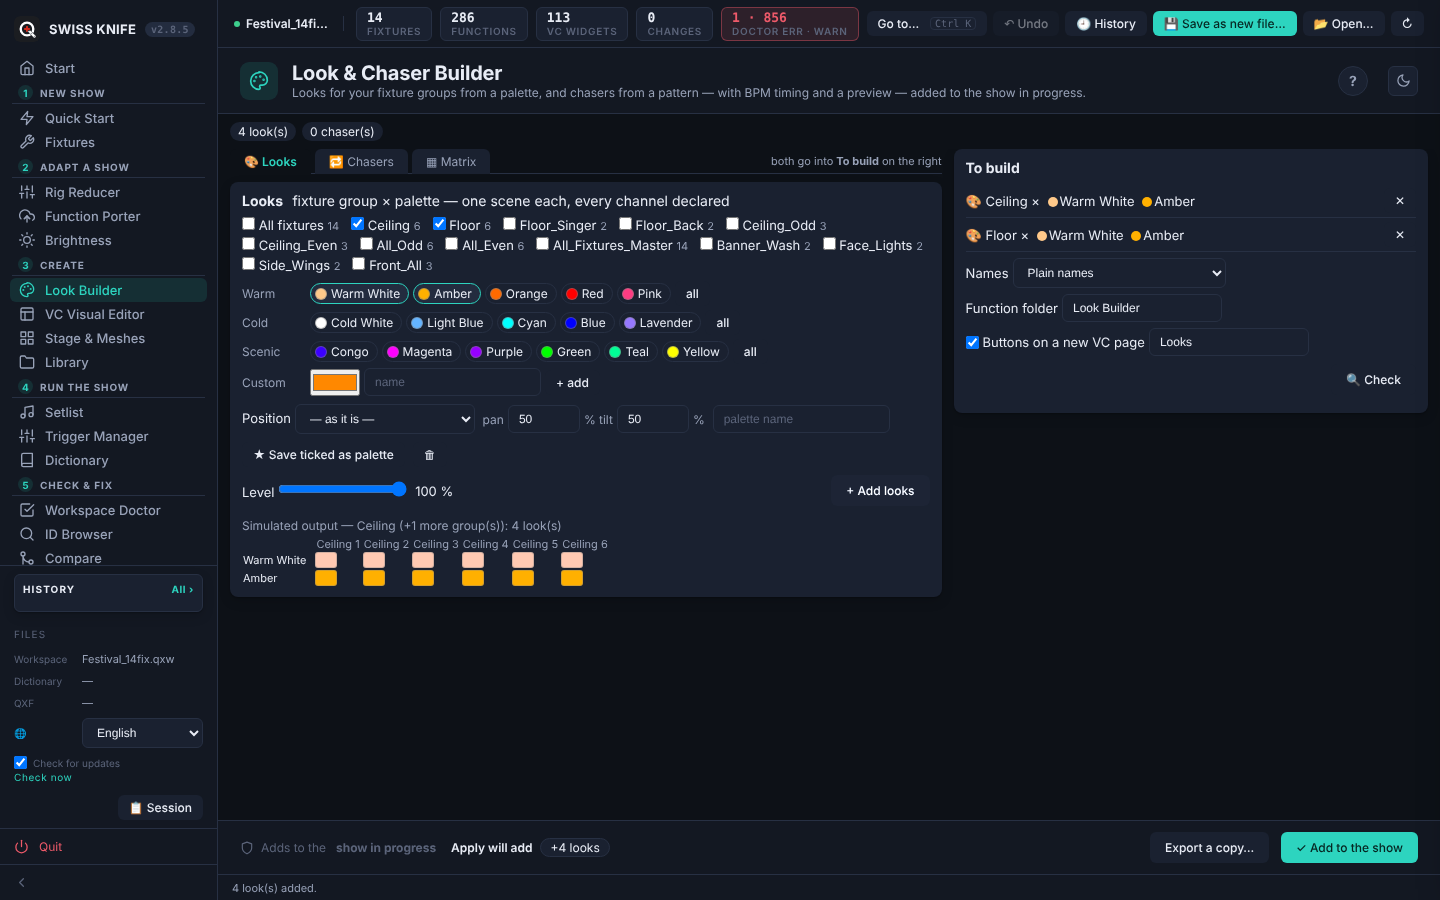
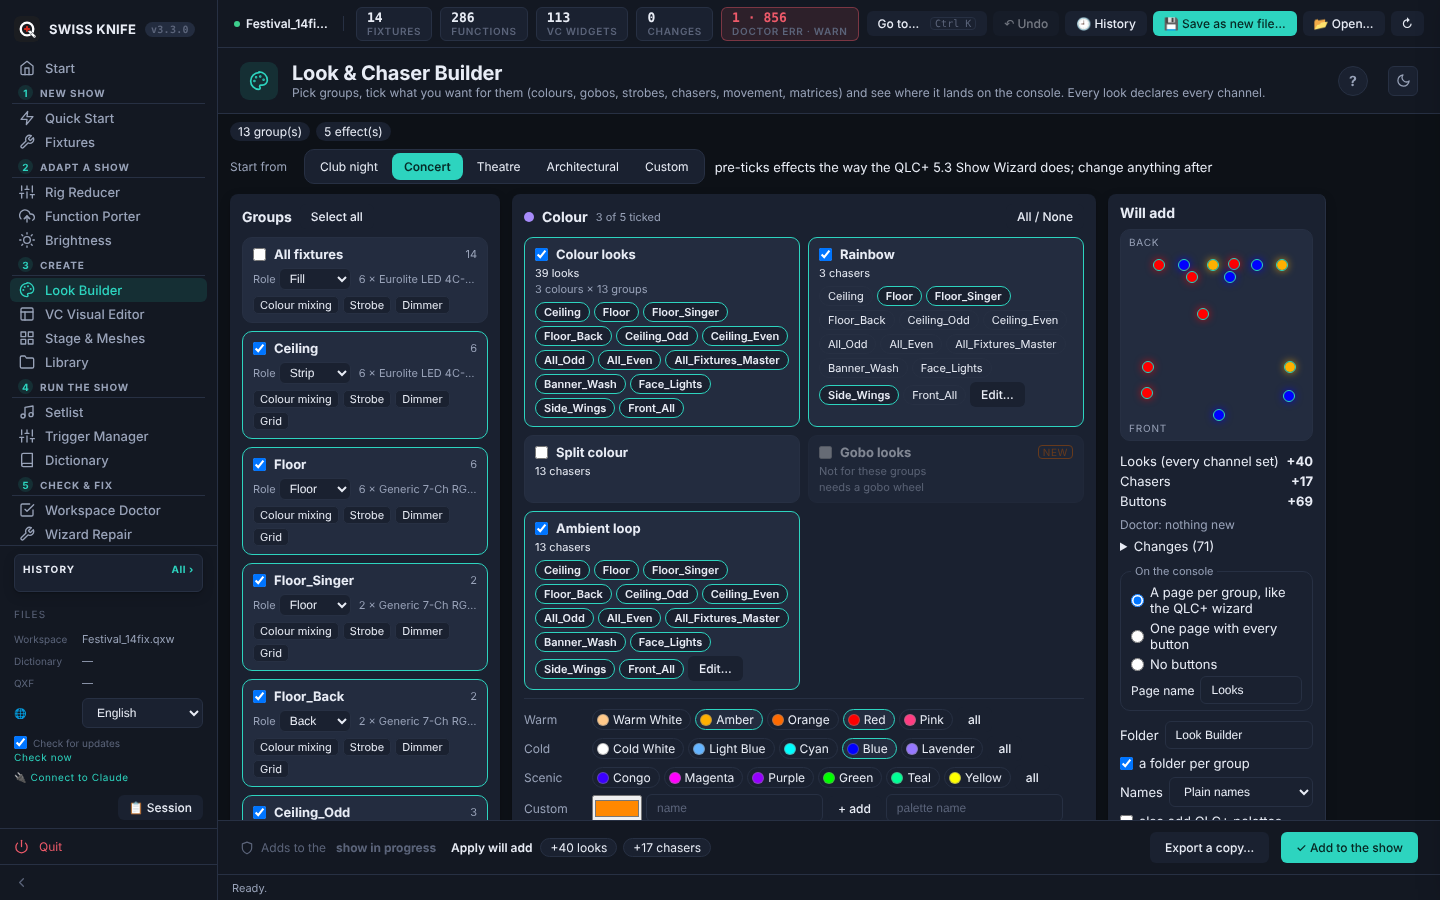
docs: 3.3.0 release notes, changelog, README and screenshot, work plan; version 3.3.0
Claude-Session: https://claude.ai/code/session_01QAPYdCyhLPYeTtoNViQ3PK

diff --git a/tools/make_screenshots.py b/tools/make_screenshots.py
@@ -92,18 +92,14 @@ def main():
         pg.wait_for_timeout(1200)
         shot("05-function-porter.png", "porter", 1200)
         shot("06-brightness.png", "brightness")
-        # 07 · Look Builder: two groups, the warm palette, added to the batch
+        # 07 · Look Builder (3.3.0): every group, Start from Concert, the counts worked out
         pg.click("#sn-looks")
-        pg.wait_for_timeout(900)
+        pg.wait_for_timeout(1200)
         try:
-            pg.get_by_label("Ceiling").first.check()
-            pg.get_by_label("Floor", exact=False).first.check()
-            pg.get_by_text("Warm White").first.click()
-            pg.get_by_text("Amber").first.click()
-            pg.get_by_role("button", name="+ Add looks").click()
+            pg.evaluate("looksType('Concert')")
         except Exception as e:  # noqa: BLE001
             print("  ! looks:", str(e)[:120])
-        shot("07-look-builder.png", None, 900)
+        shot("07-look-builder.png", None, 2500)
         shot("08-vc-editor.png", "vceditor", 1500)
         shot("09-stage-meshes.png", "stage", 1200)
         # 10 · Setlist: a night's songs pasted into the first slot and matched

diff --git a/core/workspace.py b/core/workspace.py
@@ -29,7 +29,7 @@ QLC_NS_URI = 'http://www.qlcplus.org/Workspace'
 NS = {'q': QLC_NS_URI}
 ET.register_namespace('', QLC_NS_URI)
 
-VERSION = "3.2.0"  # single source of truth — must match CHANGELOG
+VERSION = "3.3.0"  # single source of truth — must match CHANGELOG
 
 # ── Safety limits (same as the tkinter version) ───────────────────────────────
 _MAX_XML_BYTES = 50 * 1024 * 1024   # 50 MB

diff --git a/WORKPLAN.md b/WORKPLAN.md
@@ -18,7 +18,7 @@ This is the living plan for Swiss Knife. It says where the project stands, what 
 
 ## 1. Where we are
 
-**Version 3.2.0, released 15 October 2026.** 3.1.0 added support for shows made by the QLC+ 5.3 Show Wizard, and 3.2.0 gives older QLC+ 5 shows what QLC+ 5.3 offers. Swiss Knife opens a QLC+ 5 workspace once, lets any tool change it as the show in progress, checks it with the Workspace Doctor and saves it as a new file with a report and a recipe.
+**Version 3.3.0, 15 October 2026 (prepared, not yet merged).** 3.1.0 added support for shows made by the QLC+ 5.3 Show Wizard, 3.2.0 gives older QLC+ 5 shows what QLC+ 5.3 offers, and 3.3.0 rebuilds the Look & Chaser Builder in the wizard's terms. Swiss Knife opens a QLC+ 5 workspace once, lets any tool change it as the show in progress, checks it with the Workspace Doctor and saves it as a new file with a report and a recipe.
 
 | Area | State |
 |---|---|
@@ -27,7 +27,7 @@ This is the living plan for Swiss Knife. It says where the project stands, what 
 | Install | Packages for macOS (Apple silicon and Intel), Windows (installer and zip) and Linux. An update check with *Update and restart*, tested on macOS several times. |
 | Language | English, Italian, French, German, Spanish, Portuguese, Japanese and Chinese. |
 | Claude | Swiss Knife is an MCP server with 26 tools, among them `guide`, which explains the others. It also offers four ready requests (MCP prompts) and the guide as resources. Claude Desktop connects with one file (`.mcpb`), Claude Code with one command. Claude gets only the folders you list and Swiss Knife itself, and it writes only new files. The *Connect to Claude* card and the menu item show whether the connection exists. |
-| Tests | 915 automated tests pass. A live check against a real QLC+ 5.2.2 runs in CI (advisory). |
+| Tests | 932 automated tests pass. A live check against a real QLC+ 5.2.2 runs in CI (advisory). |
 | Documentation | README, wiki (31 pages, *Claude's tools* written from the code), CHANGELOG, one set of release notes per version. |
 
 Release 3.0.0 was the milestone: installing, updating, three languages and the Claude connection all in place, with the documentation rewritten to match. Release 3.0.1 follows a test on a real show with Claude: the Dictionary drafts descriptions itself and can hand the job to Claude, cue notes name the button, and Claude's tools are documented where Claude reads them. Release 3.0.2 adds German, Spanish, Portuguese, Japanese and Chinese, and 3.0.3 translates the tool names and fills the gaps found on the first look.
@@ -57,7 +57,25 @@ The alignment plan (`claude/STAGE_WIZARD_ALIGNMENT.md`) numbered its items 3.1 t
 | 3.1 | QLC+ 5.3 shows are safe in Swiss Knife (palettes read everywhere, layer scenes, Doctor D019 and D020) | 3.1.0, 14 October |
 | 3.2 | Finish a QLC+ wizard show (Wizard Repair) | 3.1.0, 14 October |
 | 3.3 | Upgrade a v5 show to QLC+ 5.3 | 3.2.0, 15 October |
-| 3.4 | Align Swiss Knife's own generators with the wizard (Quick Start, Look Builder) | next, 3.3.0 |
+| 3.4 | Align Swiss Knife's own generators with the wizard: the Look Builder | 3.3.0, 15 October (prepared) |
+| 3.4 | … and Quick Start (roles, capabilities from the definition, placement by role, the wizard's order) | next |
+
+### Released in 3.3.0 (prepared 15 October, branch `feat/v3.3.0`)
+
+The Look Builder part of item 3.4 of the alignment plan. Mockup first (the Claude design canvas *Look Builder redesign*, plan in `claude/LOOK_BUILDER_PLAN.md`), then built.
+
+| Change | Where |
+|---|---|
+| What a group can do (colour mixing, wheel, gobo, strobe, moves, dimmer, grid), the wizard's nine roles and a suggestion, static gobos, places on the stage, EFX in the wizard's form (5.2.2-safe) | `core/look_families.py` |
+| New plan kinds: levels, strobes, gobos (gobo × colour), blinder, place on looks and chasers, efx, matrices on a group (Dimmer mode without colour mixing), folders per group, QLC+ palettes, buttons on a page per group. A 3.2.0 plan builds byte for byte as before | `core/look_builder.py` |
+| The page-per-group console shared with Upgrade to QLC+ 5.3 (its output unchanged); the XY pad gets its own column | `core/vc_group_pages.py`, `core/upgrade53.py` |
+| The screen: groups, families, Start from, will add (live check), effect panel with More, in seven languages | `static/js/looks.js`, `static/css/style.css`, `static/i18n/*.json` |
+| Claude: `build_looks` and `looks_options` | `core/mcp_server.py`, `core/mcp_guide.py`, `routes/looks_routes.py` |
+| 17 tests on the wizard's concert show and the Quick Start club show | `tests/test_look_families.py` |
+| Fixed on the way: the options route stripped the namespace of the show in progress (the VC editor lost its pages); the fly out read the fixture rotation from the wrong place | Done |
+| Check on the Mac: on a show with moving heads, Start from Concert, Add to the show, then in QLC+ 5.3.0 the Looks page (one page per group, gobo looks, strobe looks on a Sharpy or JDC1, circle on a look aimed at a musician, fly out and in); the same show in QLC+ 5.2.2 | To do (giopas) |
+
+Decisions taken with it (15 October, giopas): the tool keeps its name; buttons on a page per group by default; gobo looks are one per gobo and colour; movement effects in 3.3.0. Roles are suggested and steer *Start from*, but are not stored in the show profile yet.
 
 ### Released in 3.2.0 (15 October)
 
@@ -215,6 +233,7 @@ Dates are the CHANGELOG dates. Details of each release are in [CHANGELOG.md](CHA
 | 3.0.3 | 9 Oct | Tool names translated; the gaps of the new languages filled. |
 | 3.1.0 | 14 Oct | QLC+ 5.3 Show Wizard shows: palettes read everywhere, Doctor D019 and D020, Wizard Repair. |
 | 3.2.0 | 15 Oct | Upgrade to QLC+ 5.3 for older shows; Doctor I008. |
+| 3.3.0 | 15 Oct | The Look & Chaser Builder in the wizard's families: gobo, strobe and level looks, places, movement effects, a page per group. |
 
 ## 4. Goal and the Pub test
 

diff --git a/CHANGELOG.md b/CHANGELOG.md
@@ -7,6 +7,30 @@ This project follows [Keep a Changelog](https://keepachangelog.com/en/1.0.0/) co
 
 ## [Unreleased]
 
+## [3.3.0] — 2026-10-15
+
+The Look & Chaser Builder works the way the QLC+ 5.3 Show Wizard thinks, and keeps everything it could do. Every look still sets every channel of its fixtures.
+
+### Changed
+- **One screen in three columns.** *Groups*: a card per fixture group with its fixtures, what they can do (colour mixing, colour wheel, gobo, strobe, moves, a grid for matrices, read from the fixture definitions) and a role, one of the wizard's nine, suggested from the group's name. *Effects*, in the wizard's families: Colour, Intensity, Movement, Matrix. Each effect is a card that says what it makes and on which groups; when no picked group can do it, it is greyed out with the reason. *Will add*: the stage seen from above, lit with the looks; the counts and the Doctor's verdict, worked out as you tick; where the buttons go.
+- **Start from** Club night, Concert, Theatre, Architectural or Custom ticks the effects the wizard ticks for that kind of show, and gives each one to the groups whose role suits it. Everything can be changed after.
+- **Buttons on a page per group**, like the wizard: one console page with a frame and a page per group, picked in the frame's header. Each page has an intensity slider, the group's looks in one solo frame (one at a time, a row per kind), its effects, PANIC RESET when the show has one, and an XY pad for moving heads in its own column. One page with every button, as before, or no buttons, are still there.
+- Functions go in a folder per group (`Look Builder/<group>/Looks` and `/Effects`), like the wizard's. The old single folder is still an option.
+- A chaser card opens the **effect panel**: the recipe (the song presets), pattern tiles with a picture of each, the colours in order, speed with Tap, cut or soft fade, and a large step preview with ▶ Play. Every other setting of the old chaser form is under *More*: steps, seed, lights on per step, split, milliseconds, the QLC+ tempo, fade percentage, colours per step or per fixture, type, background, where the moving heads aim, name. *+ New chaser* builds one of your own on any group.
+
+### Added
+- **Gobo looks**: one look per gobo and colour, in the colours you tick. Only the static gobos of the wheel are offered (no shake or scroll slots), and you pick which ones; the card says how many looks that makes.
+- **Full · Half · Off** and **Strobe slow · fast**: whole looks in white, the strobe inside each fixture's own strobe range (what the wizard's Shutter palettes cannot do on a Sharpy or a JDC1).
+- **Blinder hit**: every light of the groups at full, on a flash button.
+- **Places on the stage**: the stage centre, the audience and each musician model placed in Stage & Meshes. The colour and gobo looks of the moving heads aim there, worked out from each fixture's position like a QLC+ Position3D palette.
+- **Movement effects** (QLC+ EFX), as the wizard makes them: *Circle*, *Figure eight* and *Audience sweep* ride on the aim of the look that is playing; *Fly out* and *Fly in* set the aim themselves, mirrored for heads turned upstage. They work in QLC+ 5.2.2 too (no 5.3-only dimmer control).
+- **Matrices on any group laid out as a grid**, not only pixel bars; a group without colour mixing runs the matrix on its dimmers.
+- *Also add QLC+ palettes*: the Dimmer, Shutter, Color and Position3D palettes of Upgrade to QLC+ 5.3, for the looks just made.
+- Claude: `build_looks` takes the new kinds (levels, strobes, gobos, blinder, efx, matrices on a group, place, vc, folders, palettes) and `looks_options` returns what each group can do, its role, its gobos and the places on the stage.
+
+### Kept
+- Every control of the old screen (see *Look Builder* in the wiki for where each one went), the song presets, your palettes and custom colours, the pixel-bar matrices, Export a copy, and the same output for a plan written for 3.2.0.
+
 ## [3.2.0] — 2026-10-15
 
 Older QLC+ 5 shows get what QLC+ 5.3 offers. Checked against the source of QLC+ 5.2.2 and 5.3.0: an older show opens in 5.3 as it is, so the upgrade only adds.

diff --git a/README.md b/README.md
@@ -1,4 +1,4 @@
-# QLC+ Swiss Knife v3.2.0
+# QLC+ Swiss Knife v3.3.0
 
 <p align="center"><img src="static/logo/icon-512.png" alt="QLC+ Swiss Knife logo" width="140"></p>
 
@@ -40,7 +40,7 @@ The tools are grouped by job and numbered 1 to 6, like the side menu and the Sta
 | **2 · Adapt a show** | [Rig Reducer](https://github.com/giopas/qlc-plus-swiss-knife-tool-script/wiki/Rig-Reducer) | Keep the fixtures of a smaller rig. Everything that used the others is cleaned up, and you can re-patch. |
 | | [Function Porter](https://github.com/giopas/qlc-plus-swiss-knife-tool-script/wiki/Function-Porter) | Bring looks, chasers, effects and their buttons from another show, with fixtures, groups and meshes. Copied fixtures can join the show's own looks (*plays like*), other fixture types are translated by capability, 14 fixtures can fan in to 6, and key and MIDI bindings come along. |
 | | [Brightness](https://github.com/giopas/qlc-plus-swiss-knife-tool-script/wiki/Brightness) | Scale the master dimmer of each fixture type across every scene. Colours stay as they are. |
-| **3 · Create** | [Look Builder](https://github.com/giopas/qlc-plus-swiss-knife-tool-script/wiki/Look-Builder) | Looks from a palette for your fixture groups, and chasers from a pattern with BPM or beats timing, moving-head positions, your own palettes, pixel-bar matrices, song presets and a playable preview. |
+| **3 · Create** | [Look Builder](https://github.com/giopas/qlc-plus-swiss-knife-tool-script/wiki/Look-Builder) | Looks and effects for your fixture groups in the QLC+ 5.3 wizard's families: colours, gobos, strobes, chasers, movement effects and matrices, each greyed out when a group can't do it. Buttons on a page per group. Every look sets every channel. |
 | | [VC Visual Editor](https://github.com/giopas/qlc-plus-swiss-knife-tool-script/wiki/VC-Visual-Editor) | The Virtual Console as a canvas: add and wire widgets, pages, templates and screen sizes, align, distribute and sort. |
 | | [Stage & Meshes](https://github.com/giopas/qlc-plus-swiss-knife-tool-script/wiki/Stage-and-Meshes) | The 3D stage from above and from the front. Put band members and set pieces on the floor, aim fixtures at a mesh, hide meshes, and make and edit fixture groups. |
 | | [Library](https://github.com/giopas/qlc-plus-swiss-knife-tool-script/wiki/Community-Library) | Share VC templates, palettes, look presets, naming profiles, VC styles and Show Profiles as one plain file, and install what other QLC+ users shared. Items are checked first, and there is no server. |

diff --git a/docs/release-notes/RELEASE_NOTES_v3.3.0.md b/docs/release-notes/RELEASE_NOTES_v3.3.0.md
@@ -1,0 +1,32 @@
+# QLC+ Swiss Knife v3.3.0
+
+The Look & Chaser Builder now works the way the QLC+ 5.3 Show Wizard thinks: groups that say what they can do, effects sorted into families, and buttons on a page per group. Nothing it could do before is gone, and every look still sets every channel of its fixtures.
+
+## One screen, three columns
+
+- **Groups.** A card per group shows its fixtures, what they can do (colour mixing, a colour wheel, gobos, a strobe, movement, a grid for matrices) and a role, one of the wizard's nine, suggested from the group's name.
+- **Effects.** Colour, Intensity, Movement and Matrix, as in the wizard. Each effect is a card that says what it makes and on which groups. When none of your groups can do it, it is greyed out and says why.
+- **Will add.** The stage seen from above, lit with your looks, the counts and the Doctor's verdict as you tick, and where the buttons go.
+
+**Start from** Club night, Concert, Theatre or Architectural ticks the effects the wizard would tick for that kind of show and gives each one to the groups whose role suits it. Change anything after.
+
+## New looks and effects
+
+- Gobo looks: one per gobo and colour. You pick the gobos; the card says how many looks that makes.
+- Full, Half and Off, and Strobe slow and fast. The strobe uses each fixture's own strobe range, so it also works on fixtures where the wizard's strobe palettes do nothing.
+- Blinder hit, on a flash button.
+- Places on the stage: the centre, the audience and each musician you placed in Stage & Meshes. Your moving heads' looks aim there.
+- Movement effects, as the wizard makes them: circle, figure eight and audience sweep ride on the look that is playing; fly out and fly in set the aim themselves. They work in QLC+ 5.2.2 too.
+- Matrices on any group laid out as a grid, not only on pixel bars.
+
+## On the console
+
+By default the buttons go on one page with a frame and a page per group, like the wizard's: an intensity slider, the group's looks (one at a time), its effects, PANIC RESET and an XY pad for the moving heads. One page with every button, or no buttons, are still options.
+
+## Chasers
+
+A chaser opens in its own panel: recipe, pattern, colours, speed with Tap, cut or soft fade, and a large preview with ▶ Play. The expert settings are all still there, under More.
+
+Claude can build all of it too (`build_looks`).
+
+Full details: [CHANGELOG](https://github.com/giopas/qlc-plus-swiss-knife-tool-script/blob/main/CHANGELOG.md).
